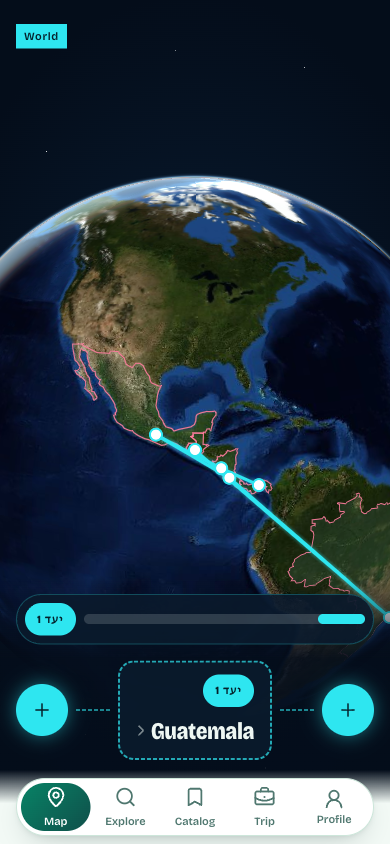
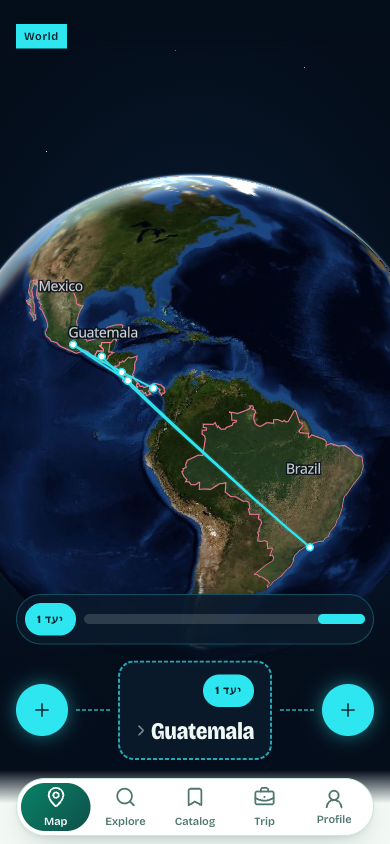
fix: the route sat across the globe instead of on it, and the labels piled up
Both from looking at the proof screenshots rather than the code.

THE LINE

The world view centred on one stop, so a trip spanning Mexico to Brazil ran
off the corner of the screen. A line that leaves the frame is not a path
across a world, it is a scratch across an image - which is exactly what it
looked like. The camera now frames the WHOLE route, with a quarter of the
trip's own span as padding on each side, because a globe curves away at its
edges and a box that exactly fits the stops pushes the outermost ones onto the
limb where the line between them disappears over the horizon.

The stepper marks which stop you are on and no longer drags the camera to it.
The reason to be this far out is to see the trip whole.

The line itself was too heavy: a 14px glow at 35% under a 4.5px core read as
two lines rather than as one lit one. Halved, and the stop dots with it - six
stops inside one isthmus had merged into a single blob, which says "somewhere
around here" when the entire job of a dot is to say exactly where.

THE LABELS

The map carried every place the vector tiles hold from zoom 3, so a trip
through Central America was labelled Dallas, Memphis and Chihuahua, three of
them stacked on each other with the middle one unreadable. Labels are now
rationed by zoom: nothing at globe distance but the countries themselves,
cities only once a country fills the screen, towns only with the streets.
Anything that will not fit is dropped rather than shoved onto its neighbour.
[…]

diff --git a/web/src/components/RouteLayer.tsx b/web/src/components/RouteLayer.tsx
@@ -84,6 +84,47 @@ export default function RouteLayer({
       })
     }
 
+    if (!map.getLayer(`${COUNTRIES}-label`)) {
+      // The country's name, set on the country. Plain white text with a halo
+      // and no box: a box is a second shape competing with the border that is
+      // already there, and the reference has none.
+      //
+      // MapLibre places a polygon's label at its pole of inaccessibility - the
+      // point furthest from any edge - so the name lands in the widest part of
+      // the country rather than on its coastline.
+      map.addLayer({
+        id: `${COUNTRIES}-label`,
+        type: 'symbol',
+        source: COUNTRIES,
+        layout: {
+          'text-field': ['get', 'name'],
+          'text-font': ['Noto Sans Regular'],
+          'text-size': ['interpolate', ['linear'], ['zoom'], 1, 13, 4, 17, 7, 20],
+          'text-transform': 'none',
+          'text-padding': 10,
+          // Lifted clear of the country's centre, because that is exactly
+          // where the route runs: a small country like Guatemala had its name
+          // sitting on the line and on its own stop dot at the same time.
+          'text-offset': [0, -1.1],
+          'text-anchor': 'bottom',
+          'text-allow-overlap': false,
+          // A bigger country wins the space when two names compete, which is
+          // also the one whose name is harder to guess from its shape.
+          'symbol-sort-key': ['*', -1, ['coalesce', ['get', 'area'], 0]],
+          // Fades out once the country fills the screen: at that point its
+          // name is in the trail at the top and on the page below, and a third
+          // copy across the middle of the map is just in the way.
+          'text-optional': true,
+        },
+        paint: {
+          'text-color': '#ffffff',
+          'text-halo-color': 'rgba(4, 13, 26, 0.9)',
+          'text-halo-width': 1.8,
+          'text-opacity': ['interpolate', ['linear'], ['zoom'], 1, 0.95, 6, 0.9, 8, 0],
+        },
+      })
+    }
+
     if (!map.getLayer(`${ROUTE}-glow`)) {
       // Two lines: a wide soft one under a tight bright one, which is what
       // makes the route read as lit rather than merely coloured.
@@ -94,9 +135,11 @@ export default function RouteLayer({
         layout: { 'line-cap': 'round', 'line-join': 'round' },
         paint: {
           'line-color': COLOURS.route,
-          'line-width': ['interpolate', ['linear'], ['zoom'], 0, 7, 6, 14],
-          'line-blur': 6,
-          'line-opacity': 0.35,
+          'line-width': ['interpolate', ['linear'], ['zoom'], 0, 4, 3, 7, 8, 12],
+          'line-blur': 4,
+          // Low enough to read as light around the line rather than as a
+          // second, fatter line. The first pass was a scratch across the globe.
+          'line-opacity': 0.22,
         },
       })
       map.addLayer({
@@ -106,21 +149,34 @@ export default function RouteLayer({
         layout: { 'line-cap': 'round', 'line-join': 'round' },
         paint: {
           'line-color': COLOURS.route,
-          'line-width': ['interpolate', ['linear'], ['zoom'], 0, 2.5, 6, 4.5],
+          'line-width': ['interpolate', ['linear'], ['zoom'], 0, 1.4, 3, 2.2, 8, 3.4],
         },
       })
     }
 
     if (!map.getLayer(STOPS)) {
+      // Drawn above the labels on purpose: a stop is the one thing on this
+      // screen that must never be obscured, because it is the trip itself.
       map.addLayer({
         id: STOPS,
         type: 'circle',
         source: STOPS,
         paint: {
-          'circle-radius': ['case', ['get', 'here'], 8, 5.5],
+          // Small on purpose. Six stops within one isthmus merged into a single
+          // blob at the first size, which said "somewhere around here" when the
+          // whole point of a dot is to say exactly where.
+          'circle-radius': [
+            'interpolate',
+            ['linear'],
+            ['zoom'],
+            1,
+            ['case', ['get', 'here'], 5, 3],
+            5,
+            ['case', ['get', 'here'], 7, 4.5],
+          ],
           'circle-color': '#ffffff',
           'circle-stroke-color': COLOURS.route,
-          'circle-stroke-width': ['case', ['get', 'here'], 3, 2],
+          'circle-stroke-width': ['case', ['get', 'here'], 2.5, 1.5],
         },
       })
     }

diff --git a/web/src/pages/MapScreen.tsx b/web/src/pages/MapScreen.tsx
@@ -24,13 +24,46 @@ import { ArrowLeft, Plus } from '../components/icons'
 import { api } from '../lib/api'
 import { useApp } from '../lib/context'
 import { useAsync } from '../lib/hooks'
-import { targetFor } from '../lib/cameraTarget'
+import { targetFor, type CameraTarget } from '../lib/cameraTarget'
 import { prefersReducedMotion, settleMs } from '../lib/flight'
 import { useEdgeSwipe } from '../lib/useEdgeSwipe'
 import { crumbsOf, depthOf, parentOf, parseScope, scopePath, type Scope } from '../lib/scope'
 
-/** How far out the world level sits: a globe, not a region. */
-const GLOBE_ZOOM = 2
+/** How far out a single-stop trip sits, with nothing to frame against. */
+const LONE_STOP_ZOOM = 2.4
+
+/**
+ * A camera that holds the entire route.
+ *
+ * Padding is generous because a globe curves away at its edges: a box that
+ * exactly fits the stops on a flat map pushes the outermost ones onto the
+ * limb, where they are foreshortened into the horizon and the line between
+ * them disappears over the edge.
+ */
+function routeFrame(stops: { lat: number | null; lon: number | null }[]): CameraTarget {
+  const placed = stops.filter(
+    (s): s is { lat: number; lon: number } => s.lat !== null && s.lon !== null,
+  )
+  if (placed.length === 0) return { kind: 'point', center: [0, 20], zoom: 1 }
+  if (placed.length === 1) {
+    return { kind: 'point', center: [placed[0].lon, placed[0].lat], zoom: LONE_STOP_ZOOM }
+  }
+
+  const lats = placed.map((p) => p.lat)
+  const lons = placed.map((p) => p.lon)
+  // A quarter of the trip's own span on each side, so the route never touches
+  // the edge of the visible hemisphere.
+  const padLat = Math.max(6, (Math.max(...lats) - Math.min(...lats)) * 0.25)
+  const padLon = Math.max(6, (Math.max(...lons) - Math.min(...lons)) * 0.25)
+
+  return {
+    kind: 'bounds',
+    bounds: [
+      [Math.min(...lons) - padLon, Math.min(...lats) - padLat],
+      [Math.max(...lons) + padLon, Math.max(...lats) + padLat],
+    ],
+  }
+}
 import { ErrorNote, SkeletonRows } from '../components/ui'
 import type { CityBreakdown, CityPlace, GlobeCountry } from '../lib/types'
 
@@ -111,26 +144,28 @@ export default function MapScreen() {
   // At the world level the route IS the reading: the stepper replaces the
   // declaration sheet rather than sitting on top of it.
   const showStepper = scope.level === 'world' && onRoute.length > 0
-  const stepped = showStepper ? onRoute[stepAt] : undefined
 
   const target = useMemo(
     () =>
-      stepped
-        ? {
-            kind: 'point' as const,
-            center: [stepped.lon, stepped.lat] as [number, number],
-            // Far enough out that the planet still reads as a planet. The
-            // stepper turns the globe to face a stop; it does not dive at it,
-            // because the whole point of this view is seeing the trip WHOLE.
-            zoom: GLOBE_ZOOM,
-          }
+      showStepper
+        ? // The WHOLE route, framed.
+          //
+          // Centring on one stop put the far end of the trip off the corner of
+          // the screen, so the line ran out of the frame instead of lying on
+          // the planet - which is what made it read as a scratch across the
+          // image rather than a path across a world.
+          //
+          // The stepper marks which stop you are on; it does not drag the
+          // camera to it, because the reason to be this far out is to see the
+          // trip whole.
+          routeFrame(routeStops)
         : targetFor(scope, {
         countryName: country?.name,
         city,
         place,
             countryPoints: (countries.data ?? []).map((c) => ({ lat: c.lat, lon: c.lon })),
           }),
-    [scope, country?.name, city, place, countries.data, stepped],
+    [scope, country?.name, city, place, countries.data, showStepper, routeStops],
   )
 
   // Pins wait for the camera. The delay is read from the flight's own length so

diff --git a/web/src/lib/mapStyle.ts b/web/src/lib/mapStyle.ts
@@ -117,22 +117,62 @@ export function buildStyle(): StyleSpecification {
           'line-width': ['interpolate', ['linear'], ['zoom'], 8, 0.4, 16, 4],
         },
       },
+      /*
+       * Labels, rationed by zoom.
+       *
+       * The first version showed every place the vector tiles carry from zoom
+       * 3, which put Dallas, Memphis and Chihuahua on a map of somebody's trip
+       * through Central America, three of them stacked on each other. A label
+       * is only worth its pixels if the traveller would look for it.
+       *
+       * So: nothing at globe zoom but the countries themselves, which are
+       * drawn from the route rather than the tiles. Cities appear when a
+       * country fills the screen, and only the ones a country is known for.
+       * Everything below that arrives with the streets.
+       */
       {
-        id: 'place-labels',
+        id: 'city-labels',
         type: 'symbol',
         source: 'streets',
         'source-layer': 'place',
-        minzoom: 3,
+        minzoom: 5,
+        filter: ['all', ['==', ['get', 'class'], 'city'], ['<=', ['get', 'rank'], 8]],
         layout: {
           'text-field': ['coalesce', ['get', 'name:latin'], ['get', 'name']],
           'text-font': ['Noto Sans Regular'],
-          'text-size': ['interpolate', ['linear'], ['zoom'], 3, 11, 10, 15],
-          'text-max-width': 8,
+          'text-size': ['interpolate', ['linear'], ['zoom'], 5, 11, 10, 14],
+          'text-max-width': 9,
+          'text-padding': 8,
+          // Anything that will not fit is dropped rather than shoved sideways
+          // on top of its neighbour, which is what produced the pile.
+          'text-allow-overlap': false,
+          'text-optional': true,
         },
         paint: {
           'text-color': COLOURS.label,
           'text-halo-color': COLOURS.labelHalo,
-          'text-halo-width': 1.4,
+          'text-halo-width': 1.5,
+          'text-opacity': ['interpolate', ['linear'], ['zoom'], 5, 0, 6.5, 0.92],
+        },
+      },
+      {
+        id: 'town-labels',
+        type: 'symbol',
+        source: 'streets',
+        'source-layer': 'place',
+        minzoom: 9,
+        filter: ['in', ['get', 'class'], ['literal', ['town', 'village', 'suburb']]],
+        layout: {
+          'text-field': ['coalesce', ['get', 'name:latin'], ['get', 'name']],
+          'text-font': ['Noto Sans Regular'],
+          'text-size': 12,
+          'text-padding': 6,
+          'text-optional': true,
+        },
+        paint: {
+          'text-color': 'rgba(255,255,255,0.82)',
+          'text-halo-color': COLOURS.labelHalo,
+          'text-halo-width': 1.2,
         },
       },
     ],

diff --git a/web/src/styles/app.css b/web/src/styles/app.css
@@ -2419,3 +2419,52 @@ textarea.review__edit:focus { border-color: var(--ink); background: transparent;
    space behind it, and space is not a light-mode decision - the sign-in screen
    already makes the same call for the same reason. */
 .screen--route .mapsheet[hidden] { display: none; }
+
+/* ---------------------------------------------------------------------------
+   Pins on the dark map
+
+   The white boxed labels were built for a pale paper map. On satellite imagery
+   they read as stickers, and three of them within one state piled on top of
+   each other until the middle one was unreadable.
+
+   The reference does it with plain text and a halo, which is what a map label
+   has always been: the dot says where, the word says what, and nothing draws a
+   container around either.
+--------------------------------------------------------------------------- */
+
+.screen--map .mappin__label {
+  border: 0;
+  background: transparent;
+  padding: 2px 4px;
+  color: #ffffff;
+  text-shadow:
+    0 0 3px rgba(4, 13, 26, .95),
+    0 1px 2px rgba(4, 13, 26, .9),
+    0 0 8px rgba(4, 13, 26, .7);
+}
+.screen--map .mappin--here .mappin__label {
+  background: transparent;
+  color: var(--coral);
+  font-weight: 800;
+}
+.screen--map .mappin__found { color: #ffd68a; }
+.screen--map .mappin__stem { background: rgba(255, 255, 255, .75); height: 9px; }
+.screen--map .mappin__dot {
+  background: #ffffff;
+  border: 2px solid rgba(4, 13, 26, .8);
+  box-shadow: 0 0 6px rgba(4, 13, 26, .9);
+}
+.screen--map .mappin--here .mappin__dot {
+  background: var(--coral);
+  border-color: #ffffff;
+}
+
+/* The trail sat straight on top of the map's own labels - "World / Mexico"
+   over "Vancouver" - because both are white text on imagery. A gradient
+   behind it separates the app's chrome from the map without a hard edge. */
+.screen--map .trail {
+  padding-bottom: var(--s-3);
+  background: linear-gradient(to bottom, rgba(4, 13, 26, .78) 40%, rgba(4, 13, 26, 0));
+}
+.screen--map .trail__link { background: transparent; color: rgba(255, 255, 255, .82); }
+.screen--map .trail__sep { color: rgba(255, 255, 255, .35); }
